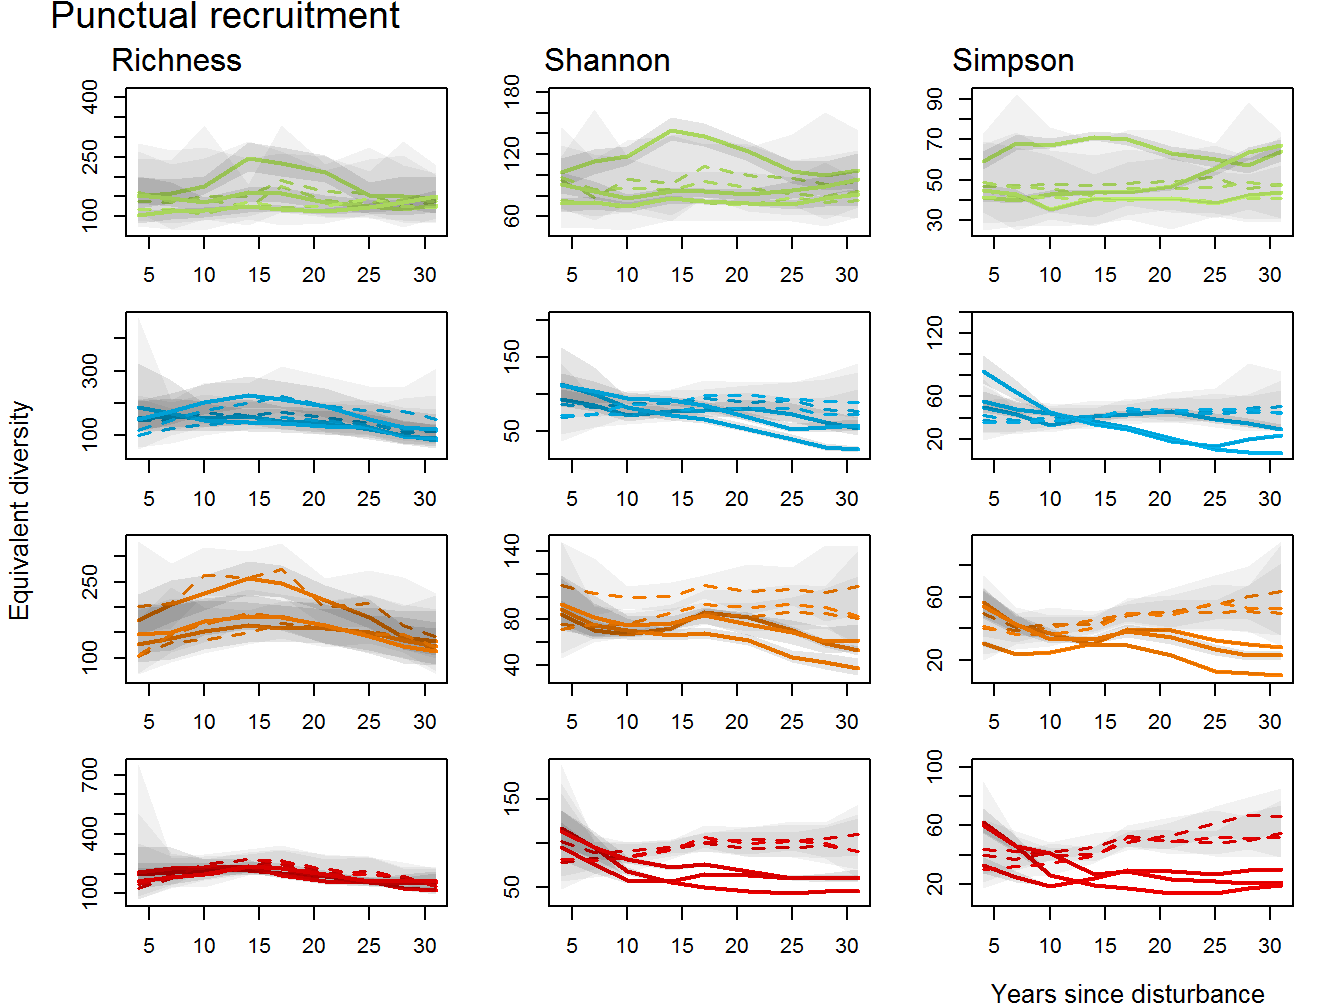
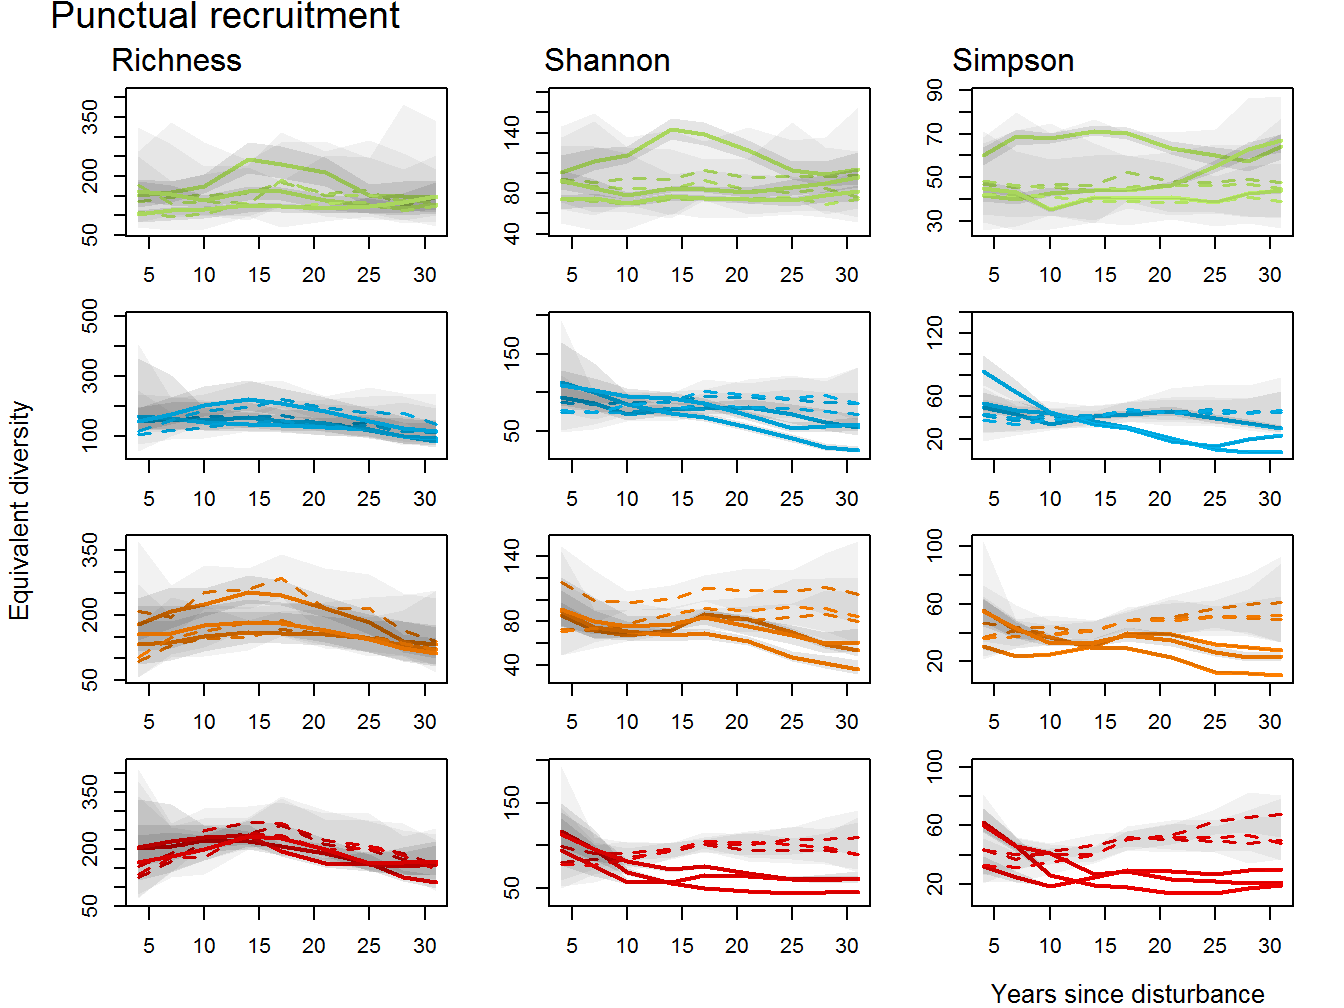
Manuscript update

diff --git a/docs/material-and-methods.html b/docs/material-and-methods.html
@@ -96,7 +96,11 @@ div.abstract{
 <h1><span class="header-section-number">2</span> Material and Methods</h1>
 <p><em>Study Site</em> Analyses were based on the inventories conducted at the Paracou station in French Guiana (5°18’N and 52°53’W) in a lowland tropical rain forest. The site corresponds to a tropical wet climate with mean annual precipitation averaging 2980 mm.y-1 (30-y period) with a 3-months dry season (&lt; 100 mm.months-1) from mid-August to mid-November, and a one-month dry season in march. Elevation ranges between 5 and 50 m and mean annual temperature is 26°C. Soils correspond to thin acrisols over a layer of transformed saprolite with low permeability generating lateral drainage during heavy rains. The experiment corresponds to a network of twelve 6.25ha plots where three logging treatments representing a gradient of logging intensity were applied from 1985 to 1987. Logging treatments were attributed according to a randomized plot design with three replicate blocks of four plots. The logging treatments correspond to averages of 10 trees remove per hectare with a diameter at 1.3 m height (DBH) above 50 cm for treatment 1 (T1), 32 trees/ha above 40 cm DBH for treatment 2 (T2) and 40 trees above 40 cm DBH for treatment 3 (T3). Treatments T2 and T3 included besides logging of 10trees/ha the thinning by poison girdling.</p>
 <p><em>Inventories Protocol and Dataset Collection</em> The study site corresponds to a tropical rain forest with a dominance of Fabaceae, Chrysobalanaceae, Lecythidaceae and Sapotaceae. In the twelve experimental plots all trees above 10 cm DBH are mapped and measured annually since 1984, which allows to survey the trees recruited annually. During the inventories trees are first identified with a vernacular name, assigned by the field team, and then with a scientific name, assigned by a botanist during regular botanical campaigns. In 1984, specific vernacular names were given to 62 commercial or common species whereas two identifiers separating palm trees and trees were given to all other species. Botanical campaigns to identify all trees at the species level started in 2003 and continued every 5 to 6. In total from 1984 to 2016 around 850 species were identified in the 12 plots. For the trees that were identified at the species level vernacular names attributed in the first place generate some taxonomic uncertainty as they may correspond to a variety of botanical species. To account for this taxonomic uncertainty in the composition and diversity metrics we used a Bayesian framework estimating the expectancy and variance of composition and diversity metrics. The frameworks is based on a set of complete inventories extrapolated from the initial one through the replacement of vernacular name by botanical species. These replacement were made through a multinomial distribution M<sub>v</sub>([s<sub>1</sub>, s<sub>2</sub>, …, s<sub>N</sub>] ,[α<sub>1</sub>, α<sub>2</sub>,…, α<sub>N</sub>]) based on the observed association probability [α<sub>1</sub>, α<sub>2</sub>,…, α<sub>N</sub>] between each vernacular name v and the species recorded in the inventory [s<sub>1</sub>, s<sub>2</sub>, …, s<sub>N</sub>]. See appendix 1 for the detailed methodology. Diversity metrics correspond to the expectancy obtained after 50 iteration of the taxonomic uncertainty propagation framework.</p>
-<p><em>Recruitment Survey</em> To assess the demographic dynamics along the 30 sampled year we divided the inventoried trees between trees recorded before the logging in 1984 and the trees recruited afterward. Analysis first surveyed the communities of trees recruited every 5 years-laps after exploitation, hereafter called “punctual recruitment”. Then to assess the diversity of the stands under settlement analysis surveyed the communities of recruited trees accumulated since exploitation, hereafter called “accumulated recruits”. To tackle the unequal number of recruited trees between treatments, which would mislead the diversity with the effect of sampling size, the diversity was assessed as the average measure obtained from the resampling of 50 trees in the 5 years – laps recruited communities. The diversity of accumulated recruits corresponded to the accumulation of resampled trees. Taxonomic diversity was assessed through Richness and the Hill number translation of Shannon and Simpson indices. These three indices belong to the set of HCDT or generalized entropy, respectively corresponding to the 0, 1 and 2 order of diversity (q). This order q grasps the balance between richness and evenness in the community as it determines the emphasis on common species in the diversity metric, with common species weighting more than rare ones when q increases. The similarity between the recruited trees and the old growth forest was measured with the turnover metrics detailed in <span class="citation">Podani, Ricotta, et Schmera (2013)</span>. The metric used correspond to the relativized abundance replacement, the sum of abundance in one site that is replaced by completely different species, normalized by the maximum abundance shared by the two communities. T_ab=(∑_(i=1)^n▒|x_ia 〖-x〗<em>ib | -|∑</em>(i=1)<sup>n▒〖x_ia-∑<em>(i=1)^n▒x_ib 〗|)/(∑</em>(i=1)</sup>n▒max{x_ia;x_ib } )</p>
+<em>Recruitment Survey</em> To assess the demographic dynamics along the 30 sampled year we divided the inventoried trees between trees recorded before the logging in 1984 and the trees recruited afterward. Analysis first surveyed the communities of trees recruited every 3 years-laps after exploitation, hereafter called “punctual recruitment”. Then to assess the diversity of the stands under settlement analysis surveyed the communities of recruited trees accumulated since exploitation, hereafter called “accumulated recruits”. The taxonomic diversity was assessed through Richness and the Hill number translation of Shannon and Simpson indices. To tackle the unequal number of recruited trees among treatments the indices bias corrected estimator were used, following . These three indices belong to the set of HCDT or generalized entropy, respectively corresponding to the 0, 1 and 2 order of diversity (q). This order q grasps the balance between richness and evenness in the community as it determines the emphasis on common species in the diversity metric, with common species weighting more than rare ones when q increases. The similarity between the recruited trees and the old growth forest was measured with the turnover metrics detailed in <span class="citation">Podani, Ricotta, et Schmera (2013)</span>. The metric used correspond to the relativized abundance replacement, the sum of abundance in one site that is replaced by completely different species, normalized by the maximum abundance shared by the two communities.
+<span class="math display" id="eq:TurnoverFormula">\[\begin{equation}
+T_ab=\frac{\sum{\limits_{i=1}^{n}|x_ia - x_ib |} -|\sum{\limits{i=1}^{n} x_ia }- \sum{\limits{i=1}^{n} x_ib} |}{\sum{{i=1}^{n}max{x_ia;x_ib }} 
+\tag{2.1}
+\end{equation}\]</span>
 <p>To determine whether trees recruitment ensued from a random process the observed diversity trajectories were compared to those generated by 50 repetitions of stochastic null models. The null model for taxonomic diversity randomly shuffled individuals among plots while preserving species abundance and plots’ tree density.</p>
 </div>
             </section>
@@ -146,6 +150,19 @@ gitbook.start({
 });
 </script>
 
+<!-- dynamically load mathjax for compatibility with self-contained -->
+<script>
+  (function () {
+    var script = document.createElement("script");
+    script.type = "text/javascript";
+    var src = "";
+    if (src === "" || src === "true") src = "https://cdn.bootcss.com/mathjax/2.7.1/MathJax.js?config=TeX-MML-AM_CHTML";
+    if (location.protocol !== "file:" && /^https?:/.test(src))
+      src = src.replace(/^https?:/, '');
+    script.src = src;
+    document.getElementsByTagName("head")[0].appendChild(script);
+  })();
+</script>
 </body>
 
 </html>

diff --git a/docs/introduction.html b/docs/introduction.html
@@ -97,7 +97,7 @@ div.abstract{
 <h4 class="author"><em>Ariane Mirabel</em></h4>
 <h4 class="author"><em>Eric Marcon</em></h4>
 <h4 class="author"><em>Bruno Hérault</em></h4>
-<h4 class="date"><em>01 février 2018</em></h4>
+<h4 class="date"><em>05 février 2018</em></h4>
 <div class="abstract">
 <p class="abstract">Abstract</p>
 <p>Résumé de l’article.</p>
@@ -105,12 +105,11 @@ div.abstract{
 </div>
 <div id="introduction" class="section level1">
 <h1><span class="header-section-number">1</span> Introduction</h1>
-<p>Decades of studies retained demographic processes driving trees recruitment as the main determinant of forest dynamics. As stated by the Intermediate Disturbance Hypothesis (IDH), a high biodiversity in communities would be maintained by the variability of environmental conditions which would favor and enhance the growth of a variety of species along time which makes the recruited trees to be very diverse. Similarly, the high diversity of tropical forests is assumed to be maintained by the tree fall gaps dynamics which impulses a different recruitment regime between enlightened and dyer gaps and shaded, wet undercover areas. Recruitment dynamics are thus crucial to understand, as determinant of the forest-to-be and driver of community assemblage. A large literature investigated forests population dynamics and successfully modeled forest response to disturbance. Based on stands structure observed in the field, these models proved relevant predictors of carbon sequestration, commercial stocks and diameter distribution dynamics in the short and in the long term . Predicting in this way species population recovery and subsequently stands diversity after disturbance however seems tricky as the growth and survival dynamics in the early life stage, far from being well understood, are highly variable among species which makes the recruitment of a tree too infrequent an event and really poorly correlated to the presence of similar species at the time considered. Attempts were successfully conducted to model the regeneration of single species however the response of the whole recruited community after disturbance could not reasonably be assessed via similar methods which would require the combination of accurate knowledge of each species ecology and behavior.</p>
+<p>Decades of studies retained demographic processes driving trees recruitment as the main determinant of forest dynamics, and a inescapable mirror of the forest-to-be for forest dynamics forecasts. Recruitment is the driving mechanisms of the Intermediate Disturbance Hypothesis (IDH) which explains the maintenance of tropical forests high biodiversity through the variability of environmental conditions, favoring the growth of a variety of species and thus the diversity of recruited trees . This makes recruitment dynamics the drivers of major dynamics, such as the tree fall gaps dynamics which continuously impulses different recruitment regime between enlightened, dry gaps and shaded, wet undercover areas.</p>
+<p>Forests population dynamics were the focus of a large literature which successfully modeled the response of key forest features and functions such as carbon sequestration, commercial stocks, and diameter distribution dynamics in the short and in the long term . However, the response of communities on their whole and the underlying assembly rules remains unknown. Insights lready highlighted a combination of environmental filters and stochastic events as drivers of the response to disturbance, but the importance of recruitment dynamics have scarcely been disentangled. This hampers to have a refined understanding of response dynamics and to accurately forecast of future forests dynamics. If the regeneration of some species is successfully modeled, the response of the whole recruited community after disturbance but this approach requires an accurate knowledge of species ecology and behavior. It would not be workable for the community on its whole,given the number of species in tropical forests and the variability of growth and survival in the early life stage among species.</p>
+<p>In this paper we aimed to have some insights into the role of demographic dynamics underlying the response of tropical forest after disturbance. From the 30 years survey of a tropical forest after disturbance following a gradient of disturbance intensity, we aimed to (i) identify the evolution of the taxonomic and functional diversity and the functional characteristics of commnities after disturbance, (ii) highlight the environmental filters ruling the recruitment according to the disturbance intensity, and (iii) highlight the recovery of communities and the existence of cyclic dynamics for the taxonomic and functional diversity.</p>
 <ul>
-<li>Post logging dynamics have been identified but the underlying mechanisms remain unclear, and it is interesting because it gives clues on the functioning of forests (which filters are at stake and how they apply on the ecosystems)</li>
-<li><p>We were interesting in the successional rate along which recruitment functional diversity varies: do we already see the new generation of functional type selected, compared to mature (old growth) forest</p></li>
-<li><p>Do the stand return to initial condition, is the cycle achieved?</p></li>
-<li><p>Hypotheses:</p></li>
+<li>Hypotheses:</li>
 </ul>
 <ol style="list-style-type: decimal">
 <li><p>The more intense the logging, the most significant the impact on composition and diversity metrics.</p></li>
@@ -166,6 +165,19 @@ gitbook.start({
 });
 </script>
 
+<!-- dynamically load mathjax for compatibility with self-contained -->
+<script>
+  (function () {
+    var script = document.createElement("script");
+    script.type = "text/javascript";
+    var src = "";
+    if (src === "" || src === "true") src = "https://cdn.bootcss.com/mathjax/2.7.1/MathJax.js?config=TeX-MML-AM_CHTML";
+    if (location.protocol !== "file:" && /^https?:/.test(src))
+      src = src.replace(/^https?:/, '');
+    script.src = src;
+    document.getElementsByTagName("head")[0].appendChild(script);
+  })();
+</script>
 </body>
 
 </html>

diff --git a/docs/results.html b/docs/results.html
@@ -96,14 +96,14 @@ div.abstract{
 <h1><span class="header-section-number">3</span> Results</h1>
 <p>Over time, 104423 trees and 697 botanical species were recorded.</p>
 <p><strong>Recruitment Diversity</strong></p>
-<p><em>Punctual and accumulated recruits’ diversity</em> The diversity of trees recruited in T1, T2 and T3 logged plots constituted a community with lower richness and lower evenness than observed for the control plots. The OLS analysis proved a significant time-dependence of the punctual recruitment diversity for the three diversity order, Richness, Shannon and Simpson and a significant effect of the logging treatment (P&lt;0.01 in any case). It besides proved a significant time-dependence of the accumulated recruitment diversity for the three order and a significant effect of the logging.</p>
+<p><em>Punctual and accumulated recruits’ diversity</em> The diversity of trees recruited in T1, T2 and T3 logged plots first constituted a community with higher richness and lower evenness than in control plots, but this tendency inversed from 25 years after disturbance when disturbed plots displayed lower richness and lower evenness. <em>The OLS analysis proved a significant time-dependence of the punctual recruitment diversity for the three diversity order, Richness, Shannon and Simpson and a significant effect of the logging treatment (P&lt;0.01 in any case). It besides proved a significant time-dependence of the accumulated recruitment diversity for the three order and a significant effect of the logging.</em></p>
 <div class="figure" style="text-align: center"><span id="fig:Fig1"></span>
 <img src="RecruitmentTrajectories_files/figure-html/Fig1-1.png" alt="Trajectories for the 30 sampled years of Richness, Shannon and Simpson diversity for the **(a)** 5-years laps punctual recruitment and **(b)** accumulated recruits. The diversity measured correspond to the average diversity of recruited trees within 5 years – laps. Line colors represent the logging treatment (green for control, blue for T1,orange for T2 and red for T3). The 0.025 and 0.975 percentile correspond to the variance observed for 50 iteration of the taxonomic uncertainty propagation." width="80%" />
 <p class="caption">
 Figure 3.1: Trajectories for the 30 sampled years of Richness, Shannon and Simpson diversity for the <strong>(a)</strong> 5-years laps punctual recruitment and <strong>(b)</strong> accumulated recruits. The diversity measured correspond to the average diversity of recruited trees within 5 years – laps. Line colors represent the logging treatment (green for control, blue for T1,orange for T2 and red for T3). The 0.025 and 0.975 percentile correspond to the variance observed for 50 iteration of the taxonomic uncertainty propagation.
 </p>
 </div>
-<p><em>Comparison to null model</em> Punctual and accumulated recruitment diversity of order 0, 1 and 2 were compared to a null recruitment model. The null model randomly sampled the adequate number of recruited species, as observed in the real 5-years laps inventory.</p>
+<p><em>Comparison to null model</em> Punctual and accumulated recruitment diversity of order 0, 1 and 2 were compared to a null recruitment model. The null model randomly sampled the adequate number of recruited species, as observed in the real 3-years laps inventory.</p>
 <div class="figure" style="text-align: center"><span id="fig:Fig2"></span>
 <img src="RecruitmentTrajectories_files/figure-html/Fig2-1.png" alt="Punctual recruitment diversity trajectories for the Richness, Shannon and Simpson diversity compared to the null model trajectories. Values reported correspond to 0.5 quantile of plot-level median diversity obtained after 50 repetition of the taxonomic uncertainty propagation process. Lines colors correspond to the logging treatment initially applied (green for control, blue for T1,orange for T2 and red for T3)." width="100%" />
 <p class="caption">
@@ -184,6 +184,19 @@ gitbook.start({
 });
 </script>
 
+<!-- dynamically load mathjax for compatibility with self-contained -->
+<script>
+  (function () {
+    var script = document.createElement("script");
+    script.type = "text/javascript";
+    var src = "";
+    if (src === "" || src === "true") src = "https://cdn.bootcss.com/mathjax/2.7.1/MathJax.js?config=TeX-MML-AM_CHTML";
+    if (location.protocol !== "file:" && /^https?:/.test(src))
+      src = src.replace(/^https?:/, '');
+    script.src = src;
+    document.getElementsByTagName("head")[0].appendChild(script);
+  })();
+</script>
 </body>
 
 </html>

diff --git a/docs/discussion.html b/docs/discussion.html
@@ -151,6 +151,19 @@ gitbook.start({
 });
 </script>
 
+<!-- dynamically load mathjax for compatibility with self-contained -->
+<script>
+  (function () {
+    var script = document.createElement("script");
+    script.type = "text/javascript";
+    var src = "";
+    if (src === "" || src === "true") src = "https://cdn.bootcss.com/mathjax/2.7.1/MathJax.js?config=TeX-MML-AM_CHTML";
+    if (location.protocol !== "file:" && /^https?:/.test(src))
+      src = src.replace(/^https?:/, '');
+    script.src = src;
+    document.getElementsByTagName("head")[0].appendChild(script);
+  })();
+</script>
 </body>
 
 </html>

diff --git a/docs/references.html b/docs/references.html
@@ -147,6 +147,19 @@ gitbook.start({
 });
 </script>
 
+<!-- dynamically load mathjax for compatibility with self-contained -->
+<script>
+  (function () {
+    var script = document.createElement("script");
+    script.type = "text/javascript";
+    var src = "";
+    if (src === "" || src === "true") src = "https://cdn.bootcss.com/mathjax/2.7.1/MathJax.js?config=TeX-MML-AM_CHTML";
+    if (location.protocol !== "file:" && /^https?:/.test(src))
+      src = src.replace(/^https?:/, '');
+    script.src = src;
+    document.getElementsByTagName("head")[0].appendChild(script);
+  })();
+</script>
 </body>
 
 </html>
